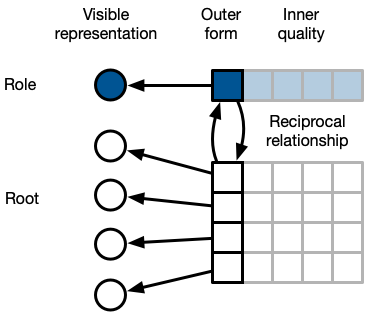
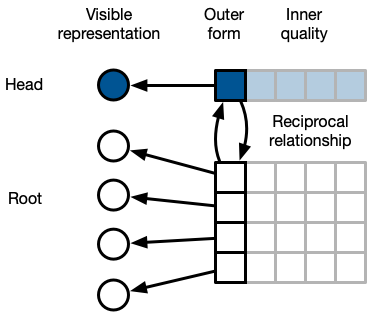
Deploying to gh-pages from @ emitanaka/edibble-book@14c1e382408daab774218626d87300fb611724bd 🚀

diff --git a/grammar.html b/grammar.html
@@ -233,7 +233,7 @@ gtag('config', 'G-ZBRNTDT9WG', { 'anonymize_ip': true});
 <section id="fundamental-terminology" class="level2" data-number="2.1">
 <h2 data-number="2.1" class="anchored" data-anchor-id="fundamental-terminology"><span class="header-section-number">2.1</span> Fundamental terminology</h2>
 <p><a href="basics.html#sec-terminology">Section&nbsp;<span>1.1</span></a> describe the basic terminology used in the field of experimental design. We can, however, describe some terms more fundamentally by considering every categorised entity (physical or otherwise) involved in the experiment to be a factor in the design. The two primary roles of a factor are treatments and units; under this categorisation blocks, experimental units and observational units are all just units – the specific role of the unit is determined by the relationship of the factors. For example, if a treatment factor is allocated to a plot factor, then the plot is an experimental unit.</p>
-<p>In the grammar, a <strong>factor</strong> is an experimental variable manifested as an object with a dual structure, the “root” and the “role”. The <strong>root</strong> is the constitution of the discrete factor levels and the <strong>role</strong> characterizes the holistic attributes of the factor. For example, consider an agricultural field trial with plot as a unit factor – the root is the plots and the role corresponds to the whole set of plots. Every root and role structure has an outer form that is visible to the user (usually in the form of a graph) and an inner quality that are intrinsic characteristics of the outer form. E.g., the dimension of the plot size may be described in the role as an inner quality (i.e.&nbsp;not something that is readily visible to the user but stored as a meta information about the factor). In addition, every root structure co-exists with a role structure in a reciprocal relationship.</p>
+<p>In the grammar, a <strong>factor</strong> is an experimental variable manifested as an object with a dual structure, the “root” and the “role”. The <strong>root</strong> is the constitution of the discrete factor levels and the <strong>head</strong> characterizes the holistic attributes of the factor. For example, consider an agricultural field trial with plot as a unit factor – the root is the plots and the head corresponds to the whole set of plots. Every root and head structure has an outer form that is visible to the user (usually in the form of a graph) and an inner quality that are intrinsic characteristics of the outer form. E.g., the dimension of the plot size may be described in the head as an inner quality (i.e.&nbsp;not something that is readily visible to the user but stored as a meta information about the factor). In addition, every root structure co-exists with a head structure in a reciprocal relationship.</p>
 <div class="cell">
 <div class="cell-output-display">
 <p><img src="figures/drawn/factor-structure.png" class="img-fluid" style="width:100.0%"></p>
